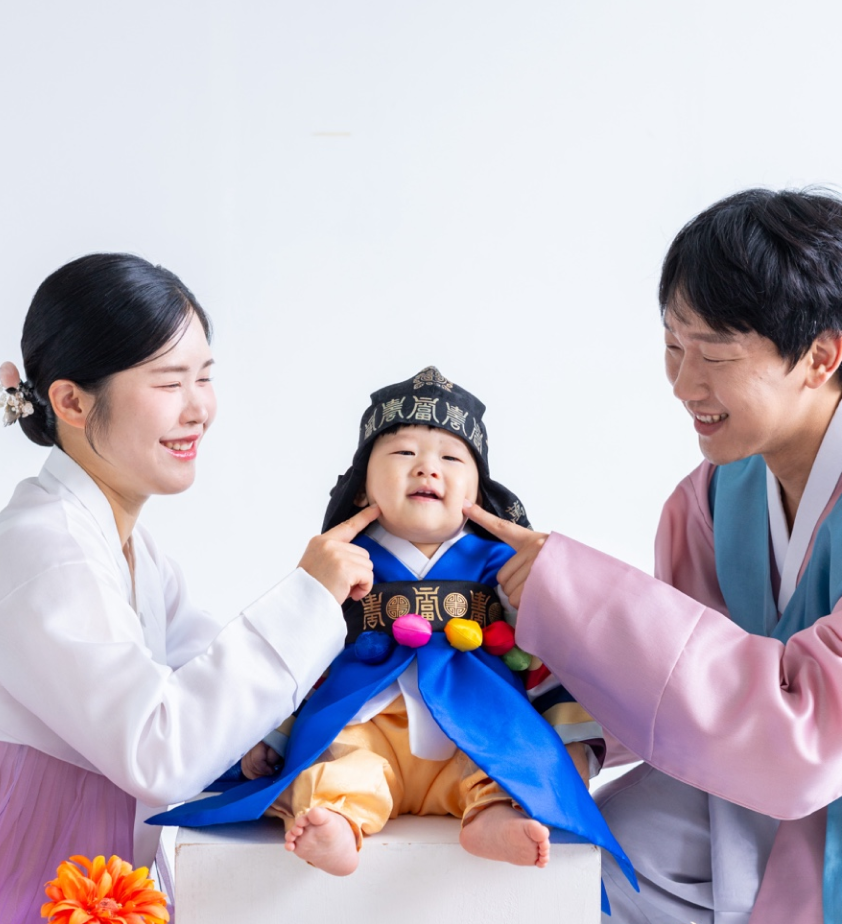
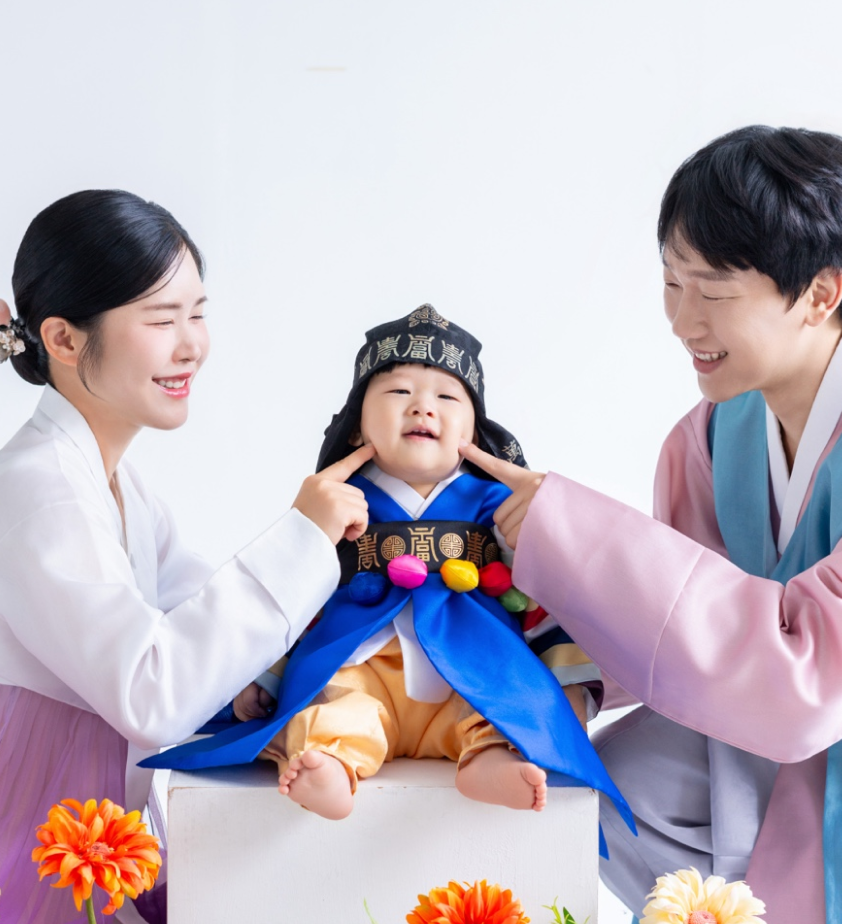
galley + kakao

diff --git a/app/page.tsx b/app/page.tsx
@@ -6,10 +6,11 @@ import Image from 'next/image';
 declare global {
   interface Window {
     naver: any;
+    Kakao: any; // 👈 Kakao 타입 추가
   }
 }
 
-// 갤러리 이미지 목록 (public/gallery/ 폴더 안의 이미지 경로)
+// 총 13개 이미지 경로 (맨 앞에 / 추가)
 const galleryImages = [
   '/gallery/Dohyun-1.jpeg',
   '/gallery/Dohyun-2.jpeg',
@@ -20,12 +21,48 @@ const galleryImages = [
   '/gallery/Dohyun-7.jpeg',
   '/gallery/Dohyun-8.jpeg',
   '/gallery/Dohyun-9.jpeg',
+  '/gallery/Dohyun-10.jpeg',
+  '/gallery/Dohyun-11.jpeg',
+  '/gallery/Dohyun-12.jpeg',
+  '/gallery/Dohyun-13.jpeg',
 ];
 
 export default function Home() {
   const mapElement = useRef<HTMLDivElement>(null);
   const [mapLoaded, setMapLoaded] = useState(false);
   const [selectedIndex, setSelectedIndex] = useState<number | null>(null);
+
+  // 스와이프 터치 위치 저장을 위한 State
+  const [touchStart, setTouchStart] = useState<number | null>(null);
+  const [touchEnd, setTouchEnd] = useState<number | null>(null);
+
+  // 주소 복사 기능 함수
+  const handleCopyLink = () => {
+    if (typeof window !== 'undefined') {
+      navigator.clipboard.writeText(window.location.href);
+      alert('초대장 주소가 복사되었습니다.');
+    }
+  };
+
+  // 카카오톡 공유 기능 함수
+  const KAKAO_JAVASCRIPT_KEY = '967fd25acd99fdd3bded0bef01106fc0';
+  const KAKAO_TEMPLATE_ID = 136469;
+
+  const handleShareKakao = () => {
+    if (typeof window === 'undefined') return;
+
+    const { Kakao } = window;
+
+    if (Kakao) {
+      if (!Kakao.isInitialized()) {
+        Kakao.init(KAKAO_JAVASCRIPT_KEY);
+      }
+
+      Kakao.Share.sendCustom({
+        templateId: KAKAO_TEMPLATE_ID,
+      });
+    }
+  };
 
   useEffect(() => {
     const checkNaverMap = setInterval(() => {
@@ -67,19 +104,46 @@ export default function Home() {
     window.naver.maps.Event.addListener(map, 'click', openNaverMap);
   }, [mapLoaded]);
 
-  // 갤러리 모달 제어 함수
+  // 갤러리 모달 제어
   const openModal = (index: number) => setSelectedIndex(index);
   const closeModal = () => setSelectedIndex(null);
-  const prevImage = (e: React.MouseEvent) => {
-    e.stopPropagation();
+
+  const prevImage = (e?: React.MouseEvent) => {
+    e?.stopPropagation();
     if (selectedIndex !== null) {
       setSelectedIndex((prev) => (prev === 0 ? galleryImages.length - 1 : (prev as number) - 1));
     }
   };
-  const nextImage = (e: React.MouseEvent) => {
-    e.stopPropagation();
+
+  const nextImage = (e?: React.MouseEvent) => {
+    e?.stopPropagation();
     if (selectedIndex !== null) {
       setSelectedIndex((prev) => (prev === galleryImages.length - 1 ? 0 : (prev as number) + 1));
+    }
+  };
+
+  // 모바일 스와이프 감지 로직 (50px 이상 이동 시 동작)
+  const minSwipeDistance = 50;
+
+  const onTouchStart = (e: React.TouchEvent) => {
+    setTouchEnd(null);
+    setTouchStart(e.targetTouches[0].clientX);
+  };
+
+  const onTouchMove = (e: React.TouchEvent) => {
+    setTouchEnd(e.targetTouches[0].clientX);
+  };
+
+  const onTouchEnd = () => {
+    if (!touchStart || !touchEnd) return;
+    const distance = touchStart - touchEnd;
+    const isLeftSwipe = distance > minSwipeDistance;
+    const isRightSwipe = distance < -minSwipeDistance;
+
+    if (isLeftSwipe) {
+      nextImage();
+    } else if (isRightSwipe) {
+      prevImage();
     }
   };
 
@@ -110,7 +174,7 @@ export default function Home() {
             <p>지난 일 년 동안 따뜻한 사랑과 관심을 보내주신 분들과<br />첫 번째 생일의 기쁨을 함께 나누고자<br />작은 자리를 마련했습니다.</p>
             <p>바쁘시겠지만 소중한 걸음으로 함께하시어<br />도현이의 첫 생일을 따뜻하게 축복해 주시면 감사하겠습니다.</p>
           </div>
-          <p className="parents-info">아빠 차지훈&nbsp;|&nbsp; 엄마 주현선</p>
+          <p className="parents-info">아빠 차지훈 &nbsp;|&nbsp; 엄마 주현선</p>
         </section>
 
         <section className="photo-section" aria-label="가족 사진">
@@ -119,11 +183,11 @@ export default function Home() {
           </div>
         </section>
 
-        {/* 갤러리 섹션 */}
+        {/* 갤러리 섹션: 썸네일은 상위 9개만 표시 */}
         <section className="gallery-section">
           <h2>갤러리</h2>
           <div className="gallery-grid">
-            {galleryImages.map((src, index) => (
+            {galleryImages.slice(0, 9).map((src, index) => (
               <button key={index} type="button" className="gallery-thumb" onClick={() => openModal(index)}>
                 <Image src={src} alt={`갤러리 사진 ${index + 1}`} fill unoptimized style={{ objectFit: 'cover' }} />
               </button>
@@ -169,6 +233,24 @@ export default function Home() {
           </div>
         </section>
 
+        {/* 공유 버튼 섹션 */}
+        <section className="share-section">
+          <button type="button" className="share-btn kakao-btn" onClick={handleShareKakao}>
+            <span>카카오톡으로 초대장 전하기</span>
+            <svg className="share-icon" viewBox="0 0 24 24" fill="none" stroke="currentColor" strokeWidth="2">
+              <path d="M7 17L17 7M17 7H7M17 7V17" />
+            </svg>
+          </button>
+
+          <button type="button" className="share-btn copy-btn" onClick={handleCopyLink}>
+            <span>초대장 주소 복사하기</span>
+            <svg className="share-icon" viewBox="0 0 24 24" fill="none" stroke="currentColor" strokeWidth="2">
+              <rect x="9" y="9" width="13" height="13" rx="2" ry="2" />
+              <path d="M5 15H4a2 2 0 0 1-2-2V4a2 2 0 0 1 2-2h9a2 2 0 0 1 2 2v1" />
+            </svg>
+          </button>
+        </section>
+
         <section className="letter-section">
           <p>저 멀리, 계절의 끝에서 작은 숨결 하나가<br />우리에게 와 도현이라는 이름이 되었습니다.</p>
           <p>작고 따뜻한 손을 잡고 걷는 하루하루가<br />우리에게는 처음 만나는 빛이었습니다.</p>
@@ -179,11 +261,17 @@ export default function Home() {
 
       {/* 전체화면 라이트박스 모달 */}
       {selectedIndex !== null && (
-        <div className="lightbox-overlay" onClick={closeModal}>
+        <div
+          className="lightbox-overlay"
+          onClick={closeModal}
+          onTouchStart={onTouchStart}
+          onTouchMove={onTouchMove}
+          onTouchEnd={onTouchEnd}
+        >
           <button type="button" className="lightbox-close" onClick={closeModal} aria-label="닫기">
             ✕
           </button>
-          
+
           <button type="button" className="lightbox-arrow left" onClick={prevImage} aria-label="이전 사진">
             ‹
           </button>

diff --git a/app/globals.css b/app/globals.css
@@ -39,7 +39,11 @@ img { display: block; }
 .wide-photo-wrap { width: 100%; overflow: hidden; background: var(--mist); }
 .wide-photo { width: 100%; height: auto; object-fit: cover; }
 
-.event-section { min-height: 900px; padding: 80px 34px 120px; text-align: center; }
+.event-section {
+  padding: 80px 34px 40px; /* 기존 80px 34px 120px에서 아래 패딩을 40px로 축소 */
+  text-align: center;
+}
+
 .section-kicker { margin: 0 0 18px; font-size: .78rem; letter-spacing: .1em; }
 .pending-detail { margin: 22px 0 0; font-size: .76rem; line-height: 1.8; }
 .directions { margin-top: 102px; }
@@ -95,7 +99,7 @@ img { display: block; }
 
 /* 갤러리 섹션 스타일 */
 .gallery-section {
-  padding: 80px 28px;
+  padding: 120px 28px;
   background: var(--paper);
   text-align: center;
 }
@@ -189,9 +193,57 @@ img { display: block; }
   right: 10px;
 }
 
+/* 공유 섹션 스타일 */
+.share-section {
+  padding: 80px 28px 60px; /* 위쪽 패딩을 20px로 조정 */
+  background: var(--paper);
+  display: flex;
+  flex-direction: column;
+  gap: 12px;
+}
+
+.share-btn {
+  display: flex;
+  align-items: center;
+  justify-content: space-between;
+  width: 100%;
+  padding: 16px 24px;
+  border-radius: 16px;
+  border: none;
+  font-family: "Gowun Batang", serif;
+  font-size: 16px;
+  font-weight: 700;
+  cursor: pointer;
+  transition: opacity 0.2s, transform 0.1s;
+}
+
+.share-btn:active {
+  transform: scale(0.99);
+}
+
+/* 카카오톡 전하기: 파스텔 노란빛으로 포인트 */
+.share-btn.kakao-btn {
+  background-color: #FEE500;
+  color: #191919;
+}
+
+/* 주소 복사하기: 은은한 미스트/네이비 톤 */
+.share-btn.copy-btn {
+  background-color: var(--mist);
+  color: var(--ink);
+}
+
+.share-icon {
+  width: 20px;
+  height: 20px;
+  stroke-linecap: round;
+  stroke-linejoin: round;
+}
+
 .letter-section { padding: 82px 45px 100px; background: var(--mist); color: #26324b; font-size: .75rem; line-height: 1.6; word-break: keep-all; }
 .letter-section p { margin: 0 0 30px; }
 .letter-sign { display: block; margin-top: 48px; color: var(--ink); font-family: "Tirelessly Love You", cursive; font-size: 1.75rem; }
+
 
 @media (max-width: 370px) { .message-copy, .letter-section { font-size: 15px; } }
 @media (min-width: 501px) { .page-shell { padding: 28px 0; } .invitation { border-radius: 20px; } }

diff --git a/app/layout.tsx b/app/layout.tsx
@@ -12,9 +12,15 @@ export default function RootLayout({ children }: Readonly<{ children: React.Reac
     <html lang="ko">
       <body>
         {children}
+        {/* 네이버 지도 SDK */}
         <Script
-         src="https://oapi.map.naver.com/openapi/v3/maps.js?ncpKeyId=rv9q6yt1sb"
-         strategy="afterInteractive"
+          src="https://oapi.map.naver.com/openapi/v3/maps.js?ncpKeyId=rv9q6yt1sb"
+          strategy="afterInteractive"
+        />
+        {/* 카카오 SDK */}
+        <Script
+          src="https://t1.kakaocdn.net/kakao_js_sdk/2.7.2/kakao.min.js"
+          strategy="afterInteractive"
         />
       </body>
     </html>
